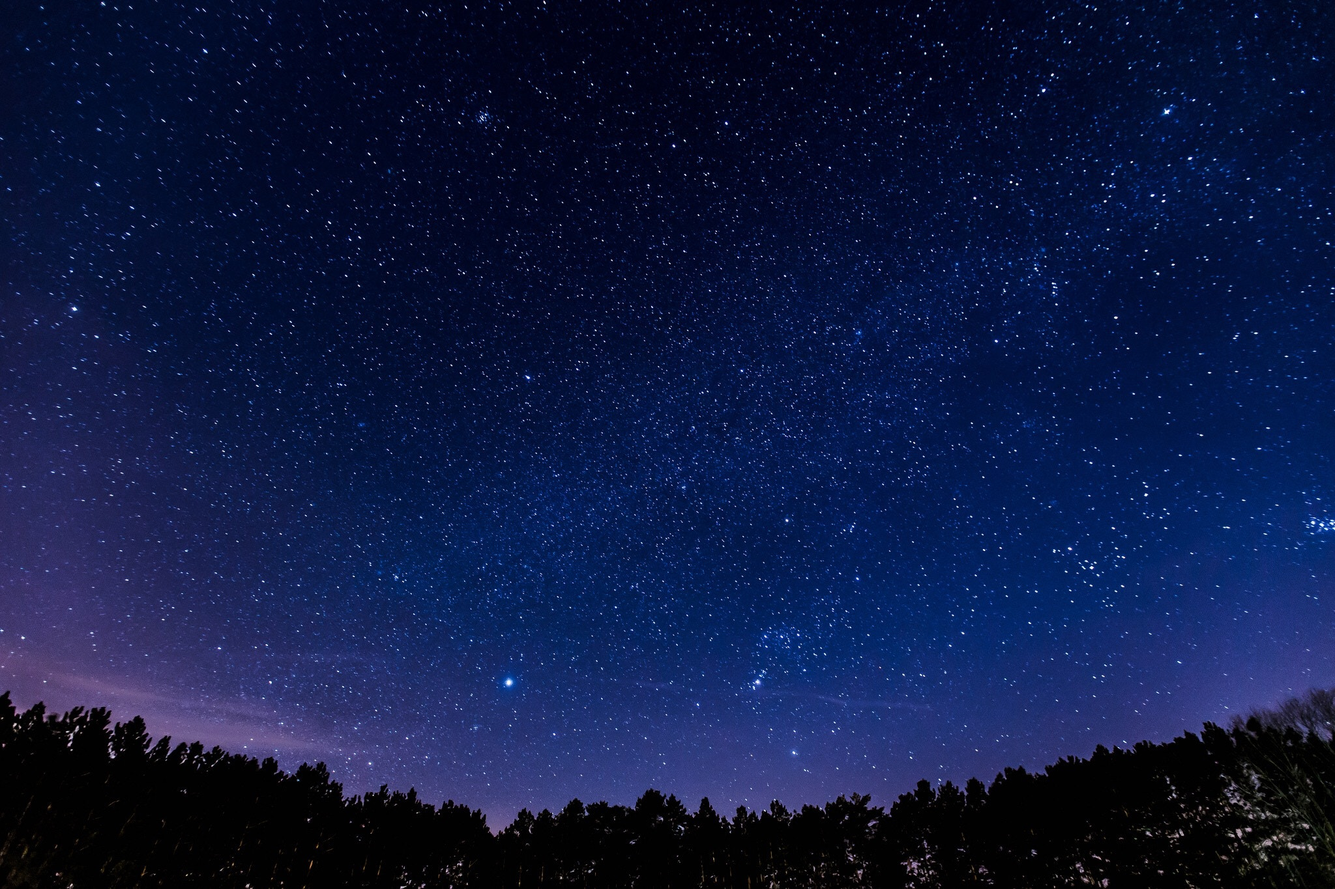
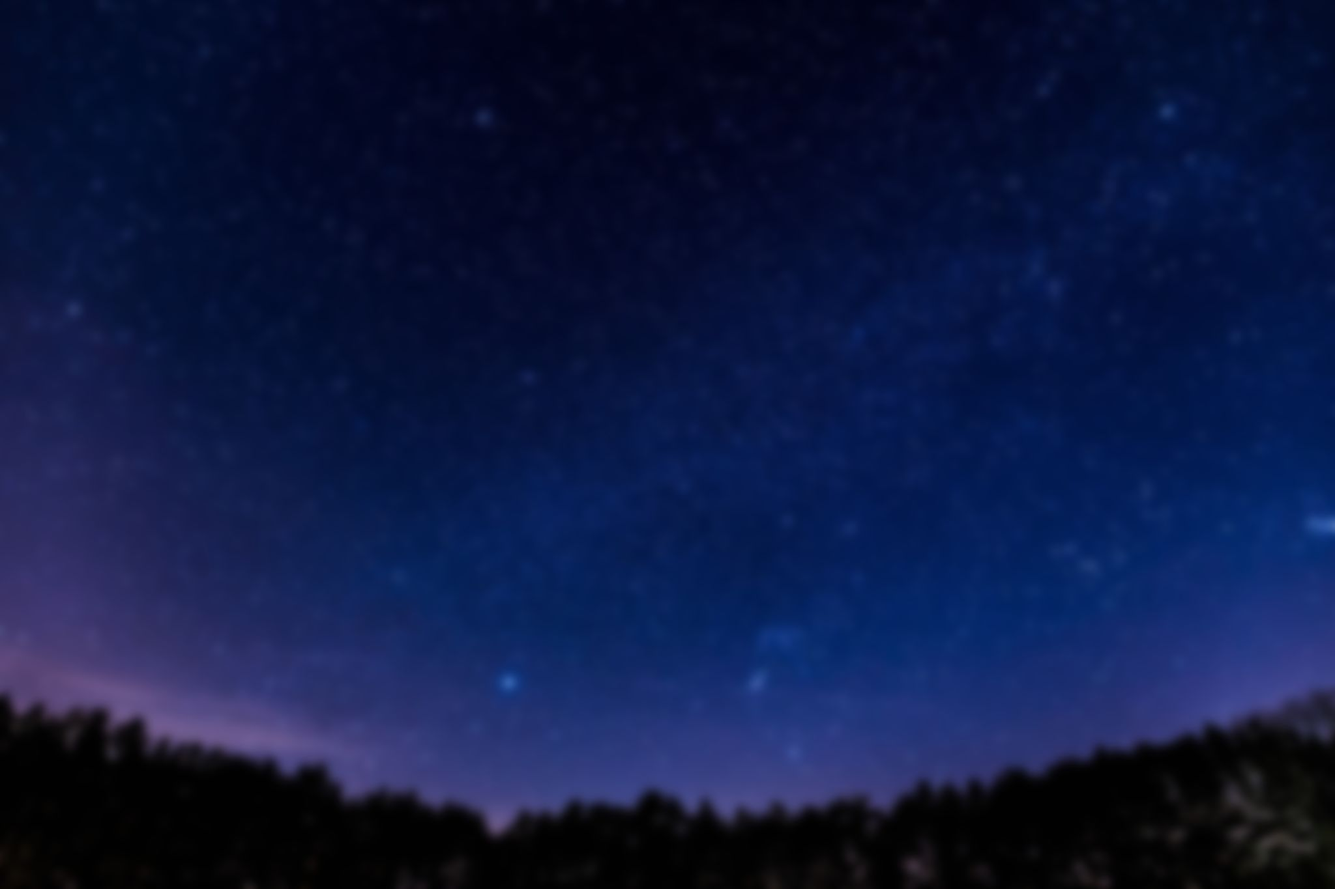
update

diff --git a/style.css b/style.css
@@ -17,7 +17,8 @@ html {
 }
 
 body {
-  background-image: url(/background-blurred.jpg);
+  background-color: #000;
+  background-image: url(/background.jpg);
   background-position: center;
   background-size: cover;
 }
